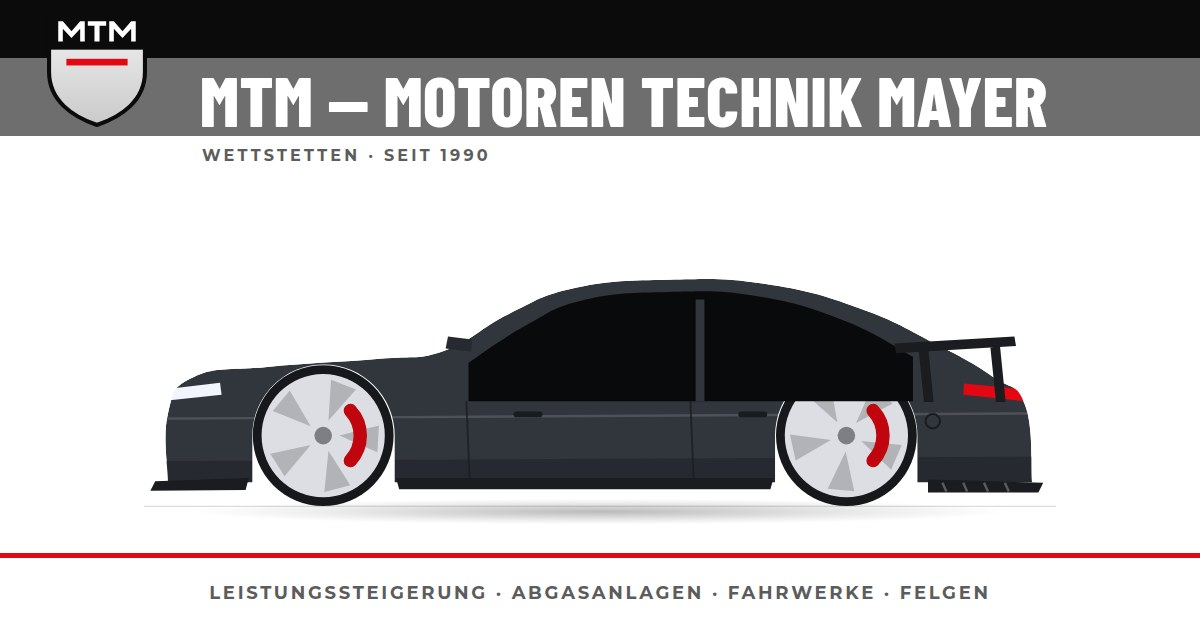
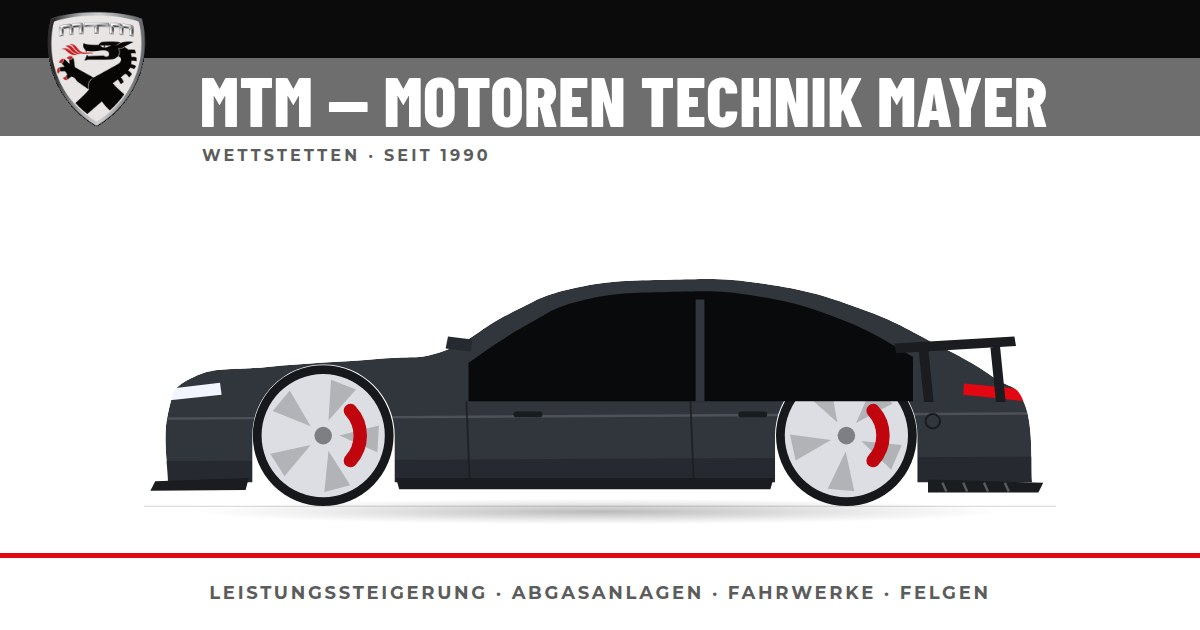
Wappen und Kopfbanner des Kunden eingesetzt
Beide Dateien kamen über den Branch herein und ersetzen die Platzhalter.

Das Wappen versorgt Kopfzeile, Vorschalter, Favicon, die vier Rechtsseiten und
das Vorschaubild; der typografische Platzhalter ist damit hinfällig und
gelöscht. Es bringt einen Alphakanal mit, steht also frei auf der dunklen
Servicezeile.

Das Banner misst 1500 × 438 und trifft mit 3,425 fast genau das Verhältnis der
Slider-Bühne (3,418) — es füllt die erste Folie jetzt randlos. Da es
Überschrift, Kennzahlen und Hinweis bereits enthält, würde der HTML-Text
doppelt erscheinen. Er bleibt deshalb als sr-only stehen, damit
Vorleseprogramme und Suchmaschinen ihn bekommen, und das Bild trägt ein leeres
alt. Der Vorauslade-Hinweis zeigt nun auf das Banner statt auf die Zeichnung.

Geprüft: alle fünf Seiten weiter ohne Befund von axe-core, ohne CSP-Verstoß und
ohne fremde Domain.

Anzumerken bleibt, dass das Wappen mit 128 × 150 Pixeln knapp bemessen ist. Für
hochauflösende Bildschirme wäre eine SVG- oder größere PNG-Fassung besser; im
README vermerkt.

Claude-Session: https://claude.ai/code/session_01FQewVCcacVLMxDADsnmfKP

Changed region(s): [[0.0308, 0.0, 0.1233, 0.2111]]

diff --git a/index.html b/index.html
@@ -14,8 +14,8 @@
 <meta property="og:image" content="https://www.mtm-online.de/assets/img/og.jpg">
 <meta name="twitter:card" content="summary_large_image">
 <link rel="canonical" href="https://www.mtm-online.de/">
-<link rel="icon" href="assets/img/logo-mtm.svg">
-<link rel="preload" as="image" href="assets/car/k1-graphit-tuned.svg">
+<link rel="icon" href="assets/img/mtm_wappen.png">
+<link rel="preload" as="image" href="assets/img/header.jpg">
 <link rel="stylesheet" href="assets/font/schriften.css">
 <link rel="preload" as="font" type="font/woff2" crossorigin
       href="assets/font/barlow-condensed-800-latin.woff2">
@@ -26,13 +26,13 @@
 <body>
 <a class="sprungmarke" href="#top">Zum Inhalt springen</a>
 <div class="preloader" data-preloader>
-  <div class="preloader__mark"><img src="assets/img/logo-mtm.svg" alt=""></div>
+  <div class="preloader__mark"><img src="assets/img/mtm_wappen.png" alt=""></div>
 </div>
 
 <!-- ============ KOPFBEREICH ============ -->
 <header class="site-head" data-nav>
   <a class="site-head__mark" href="#top" aria-label="MTM Motoren Technik Mayer, zur Startseite">
-    <img src="assets/img/logo-mtm.svg" alt="MTM" width="200" height="232">
+    <img src="assets/img/mtm_wappen.png" alt="MTM" width="128" height="150">
   </a>
 
   <div class="topbar">
@@ -118,14 +118,14 @@
 <section class="hero-slider" aria-label="Fahrzeuge und Produkte">
   <div class="slider" data-slider aria-roledescription="Karussell">
     <div class="slider__stage">
-      <article class="slide is-active" data-slide role="group"
+      <article class="slide slide--voll is-active" data-slide role="group"
                aria-roledescription="Folie" aria-label="1 von 5">
-        <div class="slide__text">
+        <div class="slide__text sr-only">
           <h2 class="slide__title">MTM Stage 1 — Audi RS5 B10</h2>
           <div class="slide__figs"><div class="fig"><b>8xx</b><span>PS</span></div><div class="fig"><b>1xxx</b><span>NM</span></div><div class="fig"><b>V6</b><span>biturbo</span></div></div>
           <p class="slide__status">Demnächst verfügbar</p>
         </div>
-        <div class="slide__media"><img class="slide__car" src="assets/car/k1-graphit-tuned.svg" alt="Platzhalter: Fahrzeugaufnahme Audi RS5 B10" loading="eager" data-foto="slider-01"></div>
+        <div class="slide__media"><img class="slide__banner" src="assets/img/header.jpg" alt="" width="1500" height="438" loading="eager" fetchpriority="high"></div>
       </article>
       <article class="slide" data-slide role="group"
                aria-roledescription="Folie" aria-label="2 von 5" aria-hidden="true">

diff --git a/barrierefreiheit.html b/barrierefreiheit.html
@@ -7,7 +7,7 @@
 <meta name="robots" content="noindex,follow">
 <link rel="canonical" href="https://www.mtm-online.de/barrierefreiheit.html">
 <meta name="theme-color" content="#C1050F">
-<link rel="icon" href="assets/img/logo-mtm.svg">
+<link rel="icon" href="assets/img/mtm_wappen.png">
 <link rel="stylesheet" href="assets/font/schriften.css">
 <style>
   *{box-sizing:border-box}
@@ -26,7 +26,7 @@
 </head>
 <body>
 <nav style="position:sticky;top:0;z-index:60;display:flex;align-items:center;justify-content:space-between;gap:20px;padding:14px clamp(20px,5vw,64px);background:rgba(255,255,255,0.92);backdrop-filter:blur(10px);-webkit-backdrop-filter:blur(10px);border-bottom:1px solid rgba(11,11,12,0.08)">
-  <a href="index.html#top" style="display:flex;align-items:center;gap:12px;color:#0B0B0C"><img src="assets/img/logo-mtm.svg" alt="" width="200" height="232" style="height:34px;width:auto"><span style="font-weight:700;font-size:15px;letter-spacing:0.02em">MTM — Motoren Technik Mayer</span></a>
+  <a href="index.html#top" style="display:flex;align-items:center;gap:12px;color:#0B0B0C"><img src="assets/img/mtm_wappen.png" alt="" width="128" height="150" style="height:34px;width:auto"><span style="font-weight:700;font-size:15px;letter-spacing:0.02em">MTM — Motoren Technik Mayer</span></a>
   <a href="index.html" style="background:#C1050F;color:#fff;font-weight:700;font-size:14px;padding:11px 20px;border-radius:8px;box-shadow:0 10px 26px -10px rgba(193,5,15,.45)">Zur Startseite</a>
 </nav>
 

diff --git a/datenschutz.html b/datenschutz.html
@@ -7,7 +7,7 @@
 <meta name="robots" content="noindex,follow">
 <link rel="canonical" href="https://www.mtm-online.de/datenschutz.html">
 <meta name="theme-color" content="#C1050F">
-<link rel="icon" href="assets/img/logo-mtm.svg">
+<link rel="icon" href="assets/img/mtm_wappen.png">
 <link rel="stylesheet" href="assets/font/schriften.css">
 <style>
   *{box-sizing:border-box}
@@ -28,7 +28,7 @@
 </head>
 <body>
 <nav style="position:sticky;top:0;z-index:60;display:flex;align-items:center;justify-content:space-between;gap:20px;padding:14px clamp(20px,5vw,64px);background:rgba(255,255,255,0.92);backdrop-filter:blur(10px);-webkit-backdrop-filter:blur(10px);border-bottom:1px solid rgba(11,11,12,0.08)">
-  <a href="index.html#top" style="display:flex;align-items:center;gap:12px;color:#0B0B0C"><img src="assets/img/logo-mtm.svg" alt="" width="200" height="232" style="height:34px;width:auto"><span style="font-weight:700;font-size:15px;letter-spacing:0.02em">MTM — Motoren Technik Mayer</span></a>
+  <a href="index.html#top" style="display:flex;align-items:center;gap:12px;color:#0B0B0C"><img src="assets/img/mtm_wappen.png" alt="" width="128" height="150" style="height:34px;width:auto"><span style="font-weight:700;font-size:15px;letter-spacing:0.02em">MTM — Motoren Technik Mayer</span></a>
   <a href="index.html" style="background:#C1050F;color:#fff;font-weight:700;font-size:14px;padding:11px 20px;border-radius:8px;box-shadow:0 10px 26px -10px rgba(193,5,15,.45)">Zur Startseite</a>
 </nav>
 

diff --git a/impressum.html b/impressum.html
@@ -7,7 +7,7 @@
 <meta name="robots" content="noindex,follow">
 <link rel="canonical" href="https://www.mtm-online.de/impressum.html">
 <meta name="theme-color" content="#C1050F">
-<link rel="icon" href="assets/img/logo-mtm.svg">
+<link rel="icon" href="assets/img/mtm_wappen.png">
 <link rel="stylesheet" href="assets/font/schriften.css">
 <style>
   *{box-sizing:border-box}
@@ -26,7 +26,7 @@
 </head>
 <body>
 <nav style="position:sticky;top:0;z-index:60;display:flex;align-items:center;justify-content:space-between;gap:20px;padding:14px clamp(20px,5vw,64px);background:rgba(255,255,255,0.92);backdrop-filter:blur(10px);-webkit-backdrop-filter:blur(10px);border-bottom:1px solid rgba(11,11,12,0.08)">
-  <a href="index.html#top" style="display:flex;align-items:center;gap:12px;color:#0B0B0C"><img src="assets/img/logo-mtm.svg" alt="" width="200" height="232" style="height:34px;width:auto"><span style="font-weight:700;font-size:15px;letter-spacing:0.02em">MTM — Motoren Technik Mayer</span></a>
+  <a href="index.html#top" style="display:flex;align-items:center;gap:12px;color:#0B0B0C"><img src="assets/img/mtm_wappen.png" alt="" width="128" height="150" style="height:34px;width:auto"><span style="font-weight:700;font-size:15px;letter-spacing:0.02em">MTM — Motoren Technik Mayer</span></a>
   <a href="index.html" style="background:#C1050F;color:#fff;font-weight:700;font-size:14px;padding:11px 20px;border-radius:8px;box-shadow:0 10px 26px -10px rgba(193,5,15,.45)">Zur Startseite</a>
 </nav>
 

diff --git a/agb.html b/agb.html
@@ -7,7 +7,7 @@
 <meta name="robots" content="noindex,follow">
 <link rel="canonical" href="https://www.mtm-online.de/agb.html">
 <meta name="theme-color" content="#C1050F">
-<link rel="icon" href="assets/img/logo-mtm.svg">
+<link rel="icon" href="assets/img/mtm_wappen.png">
 <link rel="stylesheet" href="assets/font/schriften.css">
 <style>
   *{box-sizing:border-box}
@@ -26,7 +26,7 @@
 </head>
 <body>
 <nav style="position:sticky;top:0;z-index:60;display:flex;align-items:center;justify-content:space-between;gap:20px;padding:14px clamp(20px,5vw,64px);background:rgba(255,255,255,0.92);backdrop-filter:blur(10px);-webkit-backdrop-filter:blur(10px);border-bottom:1px solid rgba(11,11,12,0.08)">
-  <a href="index.html#top" style="display:flex;align-items:center;gap:12px;color:#0B0B0C"><img src="assets/img/logo-mtm.svg" alt="" width="200" height="232" style="height:34px;width:auto"><span style="font-weight:700;font-size:15px;letter-spacing:0.02em">MTM — Motoren Technik Mayer</span></a>
+  <a href="index.html#top" style="display:flex;align-items:center;gap:12px;color:#0B0B0C"><img src="assets/img/mtm_wappen.png" alt="" width="128" height="150" style="height:34px;width:auto"><span style="font-weight:700;font-size:15px;letter-spacing:0.02em">MTM — Motoren Technik Mayer</span></a>
   <a href="index.html" style="background:#C1050F;color:#fff;font-weight:700;font-size:14px;padding:11px 20px;border-radius:8px;box-shadow:0 10px 26px -10px rgba(193,5,15,.45)">Zur Startseite</a>
 </nav>
 

diff --git a/style.css b/style.css
@@ -681,3 +681,11 @@ body.menu-open .nav__burger span:last-child{width:26px;transform:translateY(-4.7
   text-transform:uppercase;letter-spacing:.02em;font-size:16px;
   padding:14px 22px;border-bottom-right-radius:10px}
 .sprungmarke:focus{transform:translateY(0)}
+
+/* ---------- Folie mit fertigem Banner ----------
+   Das Banner bringt Überschrift, Kennzahlen und Hinweis schon mit. Der
+   HTML-Text bleibt als sr-only stehen, damit Vorleseprogramme ihn bekommen —
+   das Bild trägt deshalb ein leeres alt, sonst käme alles doppelt. */
+.slide--voll{display:block;padding:0}
+.slide--voll .slide__media{display:block;height:100%}
+.slide__banner{width:100%;height:100%;object-fit:cover;display:block}

diff --git a/README.md b/README.md
@@ -17,11 +17,11 @@ Technik: GSAP + ScrollTrigger + Lenis via CDN, sonst keine Abhängigkeiten.
 Diese Punkte sind im Quelltext als Platzhalter markiert und müssen vor dem
 Livegang ersetzt werden:
 
-1. **Logo.** `assets/img/logo-mtm.svg` ist ein Platzhalter im Wappenformat:
-   Schildform, Seitenverhältnis und Farben entsprechen dem Original, die
-   Wappenfigur ist bewusst **nicht** nachgezeichnet. Die Originaldatei des
-   Kunden ersetzt diese eine Datei — Kopfzeile, Vorschalter, Favicon,
-   Rechtsseiten und OG-Bild ziehen mit.
+1. ~~**Logo.**~~ **Erledigt** — das Wappen des Kunden liegt als
+   `assets/img/mtm_wappen.png` vor und versorgt Kopfzeile, Vorschalter,
+   Favicon, die vier Rechtsseiten und das Vorschaubild. Die Datei misst nur
+   128 × 150 px; für scharfe Darstellung auf hochauflösenden Bildschirmen
+   wäre eine SVG- oder eine größere PNG-Fassung besser.
 2. **Alle Bilder.** Sämtliche Fahrzeug- und Produktaufnahmen sind SVG-
    Zeichnungen aus `assets/car/` und `assets/parts/`. Sie halten die
    Bildplätze offen und ersetzen keine Fotografie. Jedes `alt` beginnt
